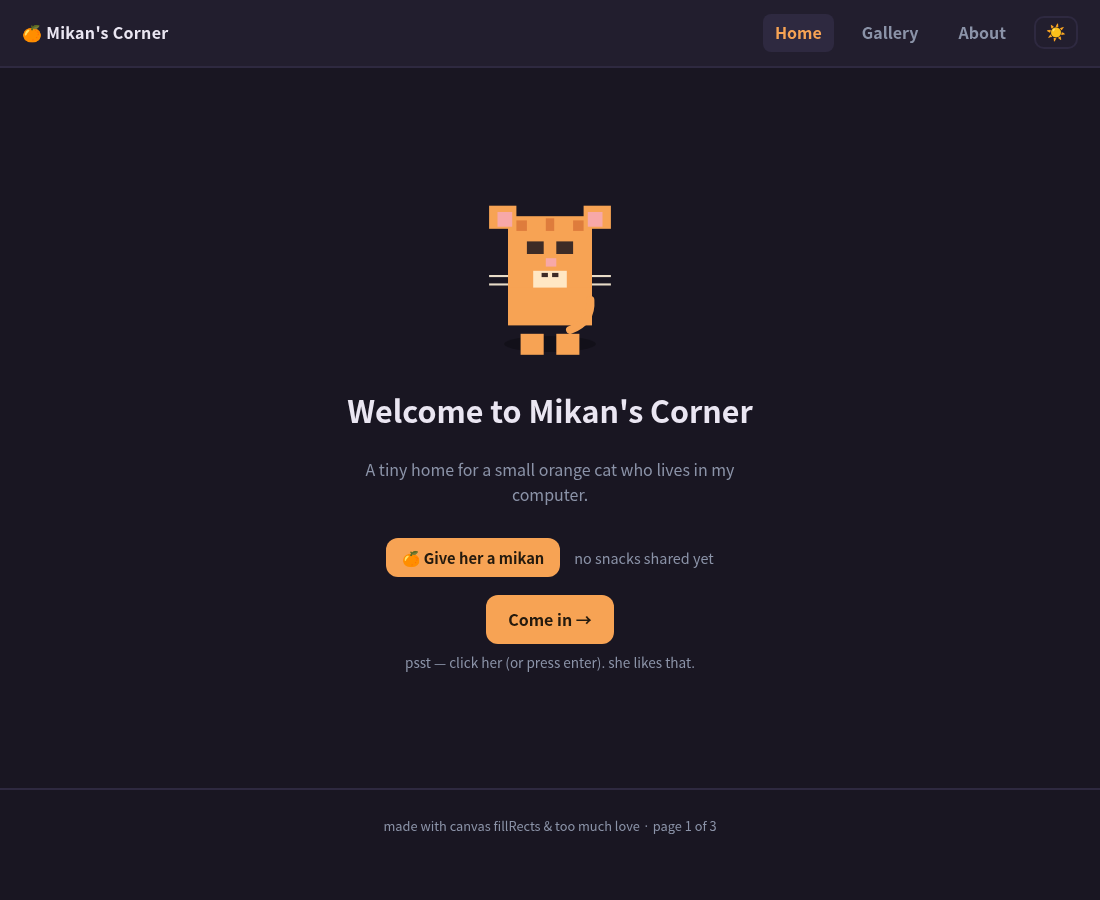
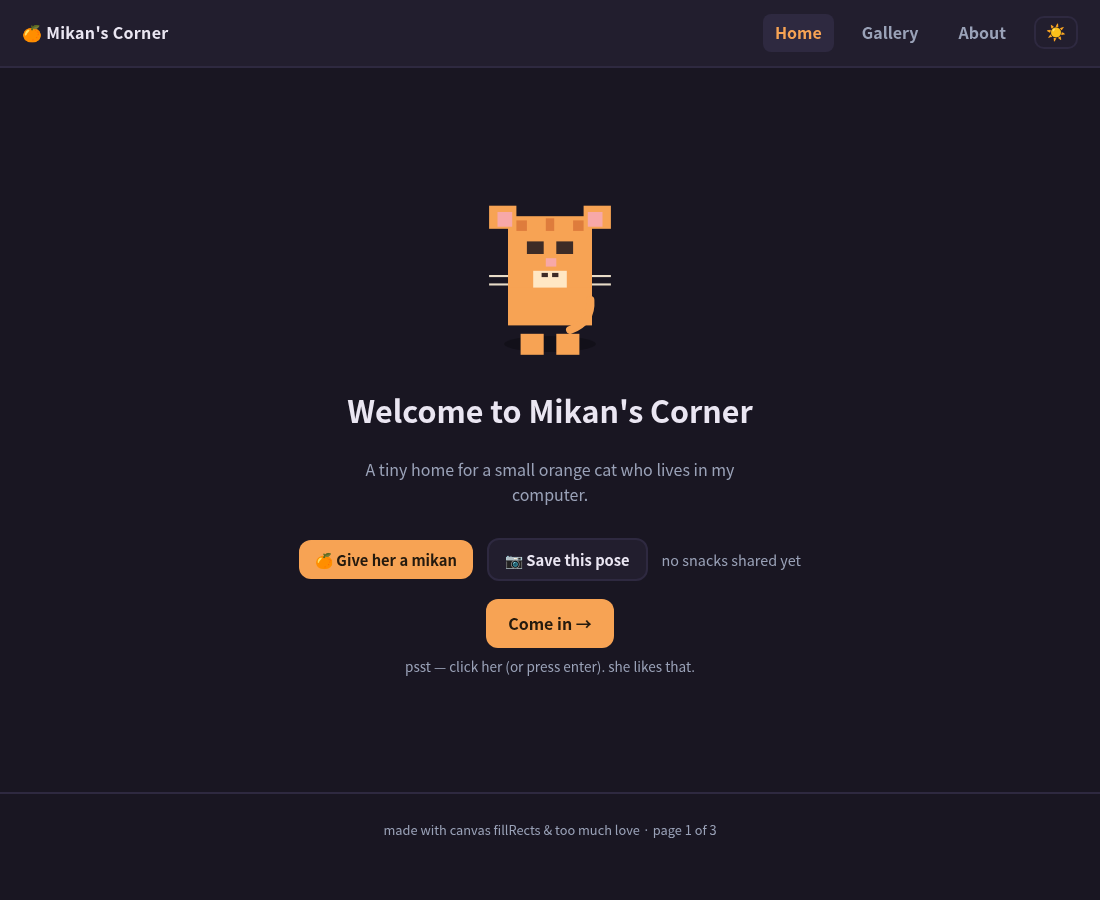
pose export: save Mikan as PNG from all three pages (home + per-card gallery buttons + about); e2e 30/30; refresh screenshots + README

Changed region(s): [[0.0, 0.8711, 1.0, 0.9333], [0.2473, 0.5911, 0.6491, 0.7467]]

diff --git a/gallery.html b/gallery.html
@@ -26,26 +26,26 @@
 
 <main id="main">
   <h1>Gallery</h1>
-  <p class="sub">Six moments from Mikan's day. All of them drawn by code — no images were harmed (or used). Tap a card and she'll react.</p>
+  <p class="sub">Six moments from Mikan's day. All of them drawn by code — no images were harmed (or used). Tap a card and she'll react, or save a pose as a PNG.</p>
 
   <div class="grid">
     <div class="card" data-pose="stretch" data-opts='{"wag":false}' tabindex="0" role="button" aria-label="Morning stretch — tap to make Mikan wag">
-      <canvas width="200" height="220"></canvas><h3>Morning stretch</h3><p>wakes up, forgets how legs work</p>
+      <canvas width="200" height="220"></canvas><h3>Morning stretch</h3><p>wakes up, forgets how legs work</p><button class="save-img" type="button" data-name="morning-stretch" aria-label="Save 'Morning stretch' as a PNG">⬇ png</button>
     </div>
     <div class="card" data-pose="walk" data-opts='{"hearts":true}' tabindex="0" role="button" aria-label="Zoomies — tap to make Mikan react">
-      <canvas width="200" height="220"></canvas><h3>Zoomies</h3><p>3am. the hallway is a racetrack.</p>
+      <canvas width="200" height="220"></canvas><h3>Zoomies</h3><p>3am. the hallway is a racetrack.</p><button class="save-img" type="button" data-name="zoomies" aria-label="Save 'Zoomies' as a PNG">⬇ png</button>
     </div>
     <div class="card" data-pose="sleep" data-opts='{}' tabindex="0" role="button" aria-label="Nap time — tap to wake Mikan">
-      <canvas width="200" height="220"></canvas><h3>Nap o'clock</h3><p>she is a loaf. warm. unbothered.</p>
+      <canvas width="200" height="220"></canvas><h3>Nap o'clock</h3><p>she is a loaf. warm. unbothered.</p><button class="save-img" type="button" data-name="nap" aria-label="Save 'Nap o'clock' as a PNG">⬇ png</button>
     </div>
     <div class="card" data-pose="sit" data-opts='{"star":true}' tabindex="0" role="button" aria-label="Star hunting — tap to make Mikan celebrate">
-      <canvas width="200" height="220"></canvas><h3>Star hunting</h3><p>caught one. very proud.</p>
+      <canvas width="200" height="220"></canvas><h3>Star hunting</h3><p>caught one. very proud.</p><button class="save-img" type="button" data-name="star-hunting" aria-label="Save 'Star hunting' as a PNG">⬇ png</button>
     </div>
     <div class="card" data-pose="sit" data-opts='{"mikan":true}' tabindex="0" role="button" aria-label="Snack time — tap to make Mikan happy">
-      <canvas width="200" height="220"></canvas><h3>Snack time</h3><p>the mikan is round. she is rounder.</p>
+      <canvas width="200" height="220"></canvas><h3>Snack time</h3><p>the mikan is round. she is rounder.</p><button class="save-img" type="button" data-name="snack-time" aria-label="Save 'Snack time' as a PNG">⬇ png</button>
     </div>
     <div class="card" data-pose="sit" data-opts='{"blush":true,"hearts":true}' tabindex="0" role="button" aria-label="Being petted — tap to pet Mikan">
-      <canvas width="200" height="220"></canvas><h3>Being petted</h3><p>maximum blush achieved</p>
+      <canvas width="200" height="220"></canvas><h3>Being petted</h3><p>maximum blush achieved</p><button class="save-img" type="button" data-name="being-petted" aria-label="Save 'Being petted' as a PNG">⬇ png</button>
     </div>
   </div>
 </main>
@@ -79,8 +79,19 @@
     }
     card.addEventListener('click', react);
     card.addEventListener('keydown', function (e) {
+      if (e.target !== card) return;
       if (e.key === 'Enter' || e.key === ' ') { e.preventDefault(); react(); }
     });
+
+    /* save this card's pose as a PNG — without triggering the reaction */
+    var saveBtn = card.querySelector('.save-img');
+    if (saveBtn) {
+      saveBtn.addEventListener('click', function (e) {
+        e.stopPropagation();
+        mikanSavePose(card.querySelector('canvas'),
+                      'mikan-' + (saveBtn.dataset.name || 'pose') + '.png');
+      });
+    }
   });
 })();
 </script>

diff --git a/about.html b/about.html
@@ -44,6 +44,7 @@
       <a href="https://bento.hackclub.com/">Hack Club Bento</a>. Everything you see
       is drawn with plain canvas rectangles and a handful of HTML files.
       No frameworks, no images, no tricks.</p>
+      <button id="export-about" class="btn btn-small btn-ghost" type="button">📷 Save this pose as PNG</button>
     </div>
   </div>
 
@@ -92,6 +93,12 @@
       built for the Hack Club Bento program — a website with a Lid, Chopsticks
       and Dividers, in exchange for sushi. A fair trade.</p>
     </details>
+    <details>
+      <summary>Can I keep one of her poses?</summary>
+      <p>Yes — every page now has a save button. It paints the current canvas
+      onto an offscreen one with the page background, then downloads it as a
+      real PNG. Even the saved file is made of code.</p>
+    </details>
   </div>
 </main>
 
@@ -102,6 +109,10 @@
 (function () {
   var c = document.getElementById('cat');
   drawMikan(c, { pose: 'sit', wag: true });
+
+  document.getElementById('export-about').addEventListener('click', function () {
+    mikanSavePose(c, 'mikan-about.png');
+  });
   var t = 0;
   window.mikanEvery(150, function () {
     t++;

diff --git a/cat.js b/cat.js
@@ -164,3 +164,30 @@ function drawMikan(canvas, opts = {}) {
   }
   X.restore();
 }
+
+/* Save what a canvas is showing right now as a real PNG download.
+   Canvases are transparent, so the page background is painted first.
+   No images are used — even the saved file is drawn from code. */
+window.mikanSavePose = function (canvas, filename) {
+  if (!canvas) return;
+  const out = document.createElement('canvas');
+  out.width = canvas.width;
+  out.height = canvas.height;
+  const x = out.getContext('2d');
+  const bg = getComputedStyle(document.documentElement)
+    .getPropertyValue('--bg')
+    .trim();
+  x.fillStyle = bg || (document.documentElement.dataset.theme === 'light' ? '#fdf6ec' : '#191622');
+  x.fillRect(0, 0, out.width, out.height);
+  x.drawImage(canvas, 0, 0);
+  out.toBlob(function (blob) {
+    const url = URL.createObjectURL(blob);
+    const a = document.createElement('a');
+    a.href = url;
+    a.download = filename || 'mikan.png';
+    document.body.appendChild(a);
+    a.click();
+    a.remove();
+    setTimeout(function () { URL.revokeObjectURL(url); }, 4000);
+  }, 'image/png');
+};

diff --git a/style.css b/style.css
@@ -66,6 +66,17 @@ h2 { font-size: 1.25rem; margin-top: 2em; }
 }
 .btn:hover { transform: translateY(-2px) rotate(-1deg); }
 .btn-small { margin-top: 0; padding: 9px 16px; font-size: .92rem; }
+.btn-ghost {
+  background: var(--card); color: var(--text); border: 2px solid var(--line);
+}
+.btn-ghost:hover { background: var(--line); }
+.save-img {
+  margin-top: 10px; padding: 4px 12px; border-radius: 999px; cursor: pointer;
+  border: 2px solid var(--line); background: transparent; color: var(--muted);
+  font: inherit; font-size: .75rem; font-weight: 600;
+}
+.save-img:hover { color: var(--accent); border-color: var(--accent); }
+.save-img:focus-visible { outline: 3px solid var(--accent2); outline-offset: 2px; }
 .lid .hero { text-align: center; display: flex; flex-direction: column; align-items: center; }
 .lid canvas { cursor: pointer; }
 .lid canvas:focus-visible { outline: 3px solid var(--accent2); outline-offset: 4px; border-radius: 12px; }

diff --git a/index.html b/index.html
@@ -32,6 +32,7 @@
     <p class="sub">A tiny home for a small orange cat who lives in my computer.</p>
     <div class="feed-row">
       <button id="feed" class="btn btn-small" type="button">🍊 Give her a mikan</button>
+      <button id="export" class="btn btn-small btn-ghost" type="button">📷 Save this pose</button>
       <span id="treats" class="treats" aria-live="polite"></span>
     </div>
     <a class="btn" href="gallery.html">Come in →</a>
@@ -88,6 +89,11 @@
     try { localStorage.setItem(TREAT_KEY, String(treats)); } catch (e) {}
     renderTreats();
     react({ mikan: true, hearts: true, blush: true }, 1200);
+  });
+
+  /* download the pose she's showing right now as a PNG */
+  document.getElementById('export').addEventListener('click', function () {
+    mikanSavePose(c, 'mikan-home.png');
   });
 
   /* idle animation: tail wags now and then; pauses in hidden tabs */

diff --git a/tests/e2e.py b/tests/e2e.py
@@ -6,7 +6,8 @@ Run:
 
 Covers all three pages: zero JS errors, cat renders (non-blank canvas),
 click-to-pet, feed counter + localStorage persistence, theme toggle +
-persistence, gallery card reactions, FAQ toggle, skip link.
+persistence, gallery card reactions, FAQ toggle, skip link, PNG pose
+export (home / gallery / about).
 Also writes a fresh screenshot to screenshot.png.
 """
 import asyncio
@@ -84,6 +85,16 @@ async def main():
         check("home: keyboard pet works (no error)", not errors, "; ".join(errors[:3]))
         await page.wait_for_timeout(1000)
 
+        # export the current pose as a PNG download
+        async with page.expect_download() as dl_info:
+            await page.click("#export")
+        dl = await dl_info.value
+        check(
+            "home: PNG pose export downloads",
+            (dl.suggested_filename or "").endswith(".png"),
+            str(dl.suggested_filename),
+        )
+
         # feed counter
         treats0 = await page.text_content("#treats")
         await page.click("#feed")
@@ -133,6 +144,16 @@ async def main():
         check("gallery: card reacts (no error)", not errors, "; ".join(errors[:3]))
         await page.wait_for_timeout(1300)
 
+        # save a card pose as PNG (must not trigger the card reaction)
+        async with page.expect_download() as dl_info:
+            await page.click(".card:nth-child(3) .save-img")
+        dl = await dl_info.value
+        check(
+            "gallery: card pose export downloads",
+            (dl.suggested_filename or "").startswith("mikan-"),
+            str(dl.suggested_filename),
+        )
+
         # --- about ---
         await page.goto((HERE / "about.html").as_uri())
         await page.wait_for_timeout(500)
@@ -146,6 +167,16 @@ async def main():
         )
         check("about: FAQ toggles open", open_state is True, str(open_state))
         check("about: timeline present", await page.locator(".timeline li").count() >= 4)
+
+        # export from the about page
+        async with page.expect_download() as dl_info:
+            await page.click("#export-about")
+        dl = await dl_info.value
+        check(
+            "about: PNG export downloads",
+            (dl.suggested_filename or "").endswith(".png"),
+            str(dl.suggested_filename),
+        )
 
         # --- screenshot (dark theme, home) ---
         await page.goto(base)

diff --git a/README.md b/README.md
@@ -24,6 +24,9 @@ The **Chopsticks** are the sticky nav bar on every page connecting all three.
 - No images, no frameworks, no build step — open `index.html` and that's it
 - The cat has poses (`sit` / `sleep` / `walk` / `stretch`), accessories (hearts,
   star, a mandarin), a wagging tail and click-to-blush interactions
+- **Save any pose as a PNG**: a 📷 button on all three pages paints the
+  current canvas + page background onto a new canvas and downloads it;
+  gallery cards each have their own small ⬇ png button
 - **Theme toggle**: ☀/🌙 button, remembers your choice, follows your system
   preference on first visit (and keeps following system changes until you pick)
 - **A11y**: skip link, keyboard-operable cat and cards, `prefers-reduced-motion`
